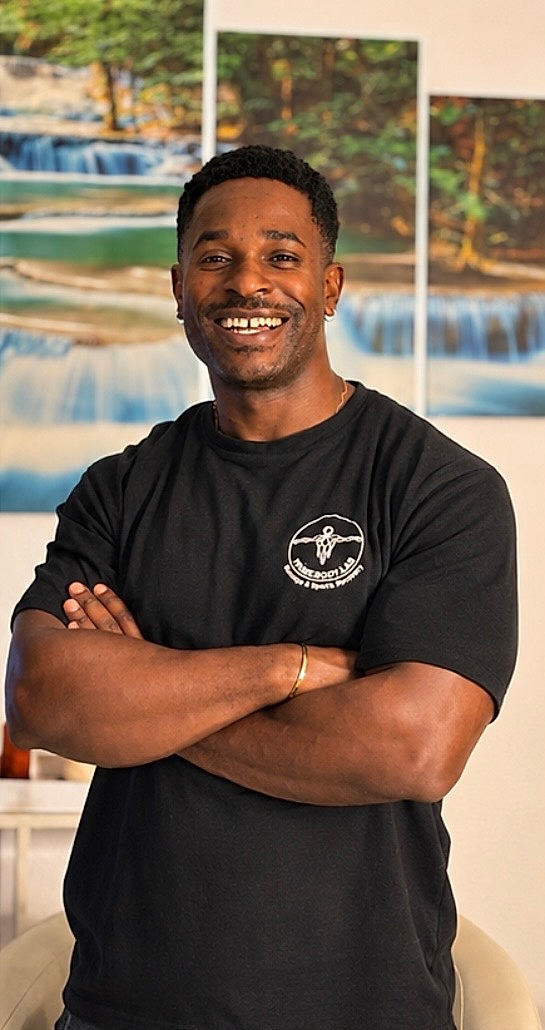
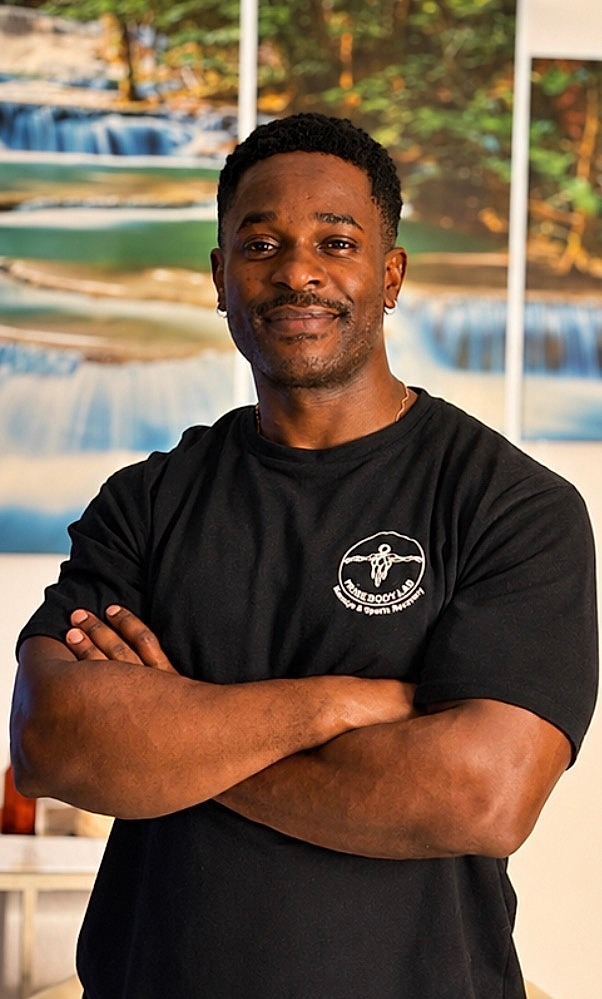
fix: correct the new-portrait placements per Eddie's revised instructions
Hero now uses the standing/smiling shot (new heroPortrait image
entry), About Me uses the standing/neutral arms-crossed shot, and
the gallery keeps just one seated portrait. Drops the two now-
unused gallery images from disk rather than leaving orphaned
files. The fourth photo (the other seated crop) stays in Downloads,
not added to the site, per "store somewhere."

diff --git a/src/content/gallery.ts b/src/content/gallery.ts
@@ -64,23 +64,7 @@ export const gallery: GalleryItem[] = [
   {
     kind: 'image',
     ...imageSchema.parse({
-      src: '/images/gallery-7.jpg',
-      alt: {de: 'Eddie, Gründer von PrimeBodyLab', en: 'Eddie, founder of PrimeBodyLab'},
-      placeholder: false,
-    }),
-  },
-  {
-    kind: 'image',
-    ...imageSchema.parse({
       src: '/images/gallery-8.jpg',
-      alt: {de: 'Eddie, Gründer von PrimeBodyLab', en: 'Eddie, founder of PrimeBodyLab'},
-      placeholder: false,
-    }),
-  },
-  {
-    kind: 'image',
-    ...imageSchema.parse({
-      src: '/images/gallery-9.jpg',
       alt: {de: 'Eddie, Gründer von PrimeBodyLab', en: 'Eddie, founder of PrimeBodyLab'},
       placeholder: false,
     }),

diff --git a/src/content/images.ts b/src/content/images.ts
@@ -25,6 +25,15 @@ export const images = {
     placeholder: false,
   }),
 
+  heroPortrait: imageSchema.parse({
+    src: '/images/eddie-hero.jpg',
+    alt: {
+      de: 'Eddie Ekanem, Gründer von PrimeBodyLab',
+      en: 'Eddie Ekanem, founder of PrimeBodyLab',
+    },
+    placeholder: false,
+  }),
+
   treatmentRoom: imageSchema.parse({
     src: '/images/treatment-room.webp',
     alt: {

diff --git a/src/app/[locale]/page.tsx b/src/app/[locale]/page.tsx
@@ -43,7 +43,7 @@ export default async function HomePage({params}: Props) {
         headline={home.hero.headline}
         body={home.hero.body}
         ctaLabel={bookCta[locale]}
-        image={images.treatmentRoom}
+        image={images.heroPortrait}
       />
       <ServiceTicker locale={locale} quote={home.tickerQuote} />
       <Gallery locale={locale} />
